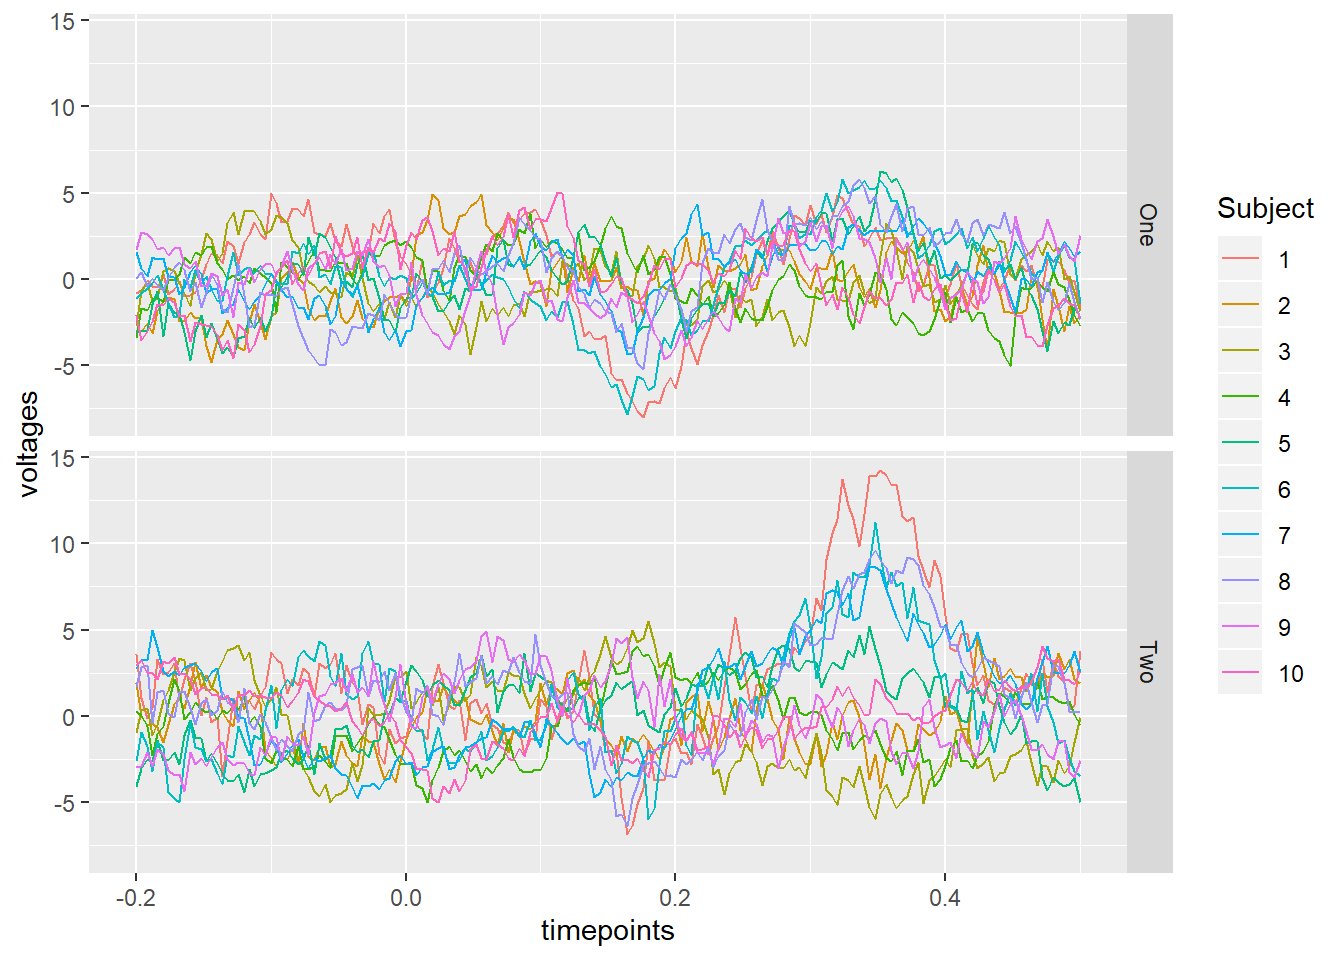
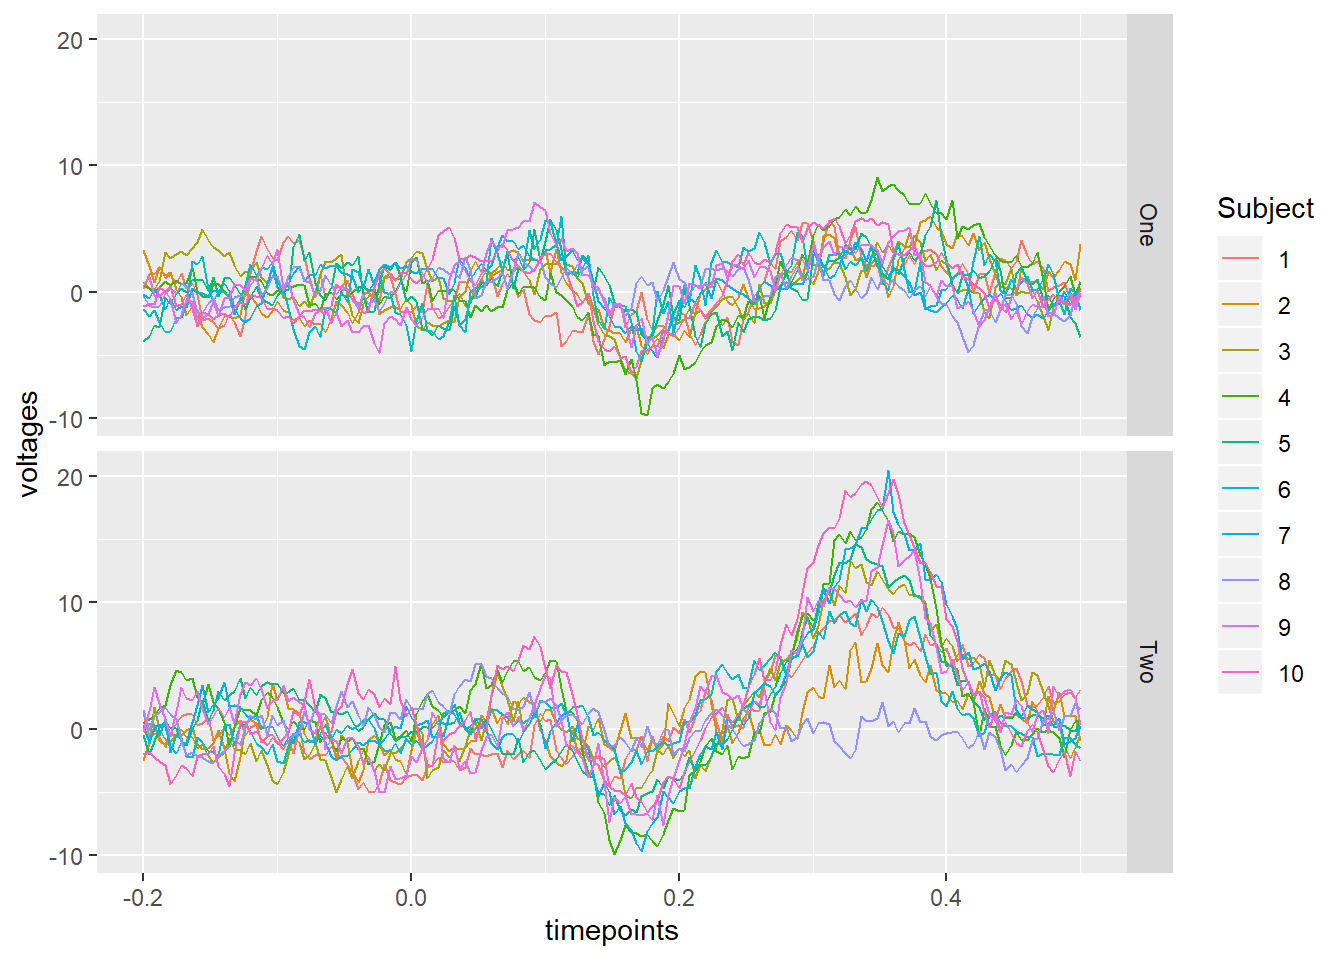
trying to get figure to show

diff --git a/content/post/2020-10-28-nz-election.html b/content/post/2020-10-28-nz-election.html
@@ -17,4 +17,4 @@ menu: main
 
 
 
-
+<p><img src="/post/2020-10-28-nz-election_files/figure-html/plotdisplay-1.png" width="672" /></p>
